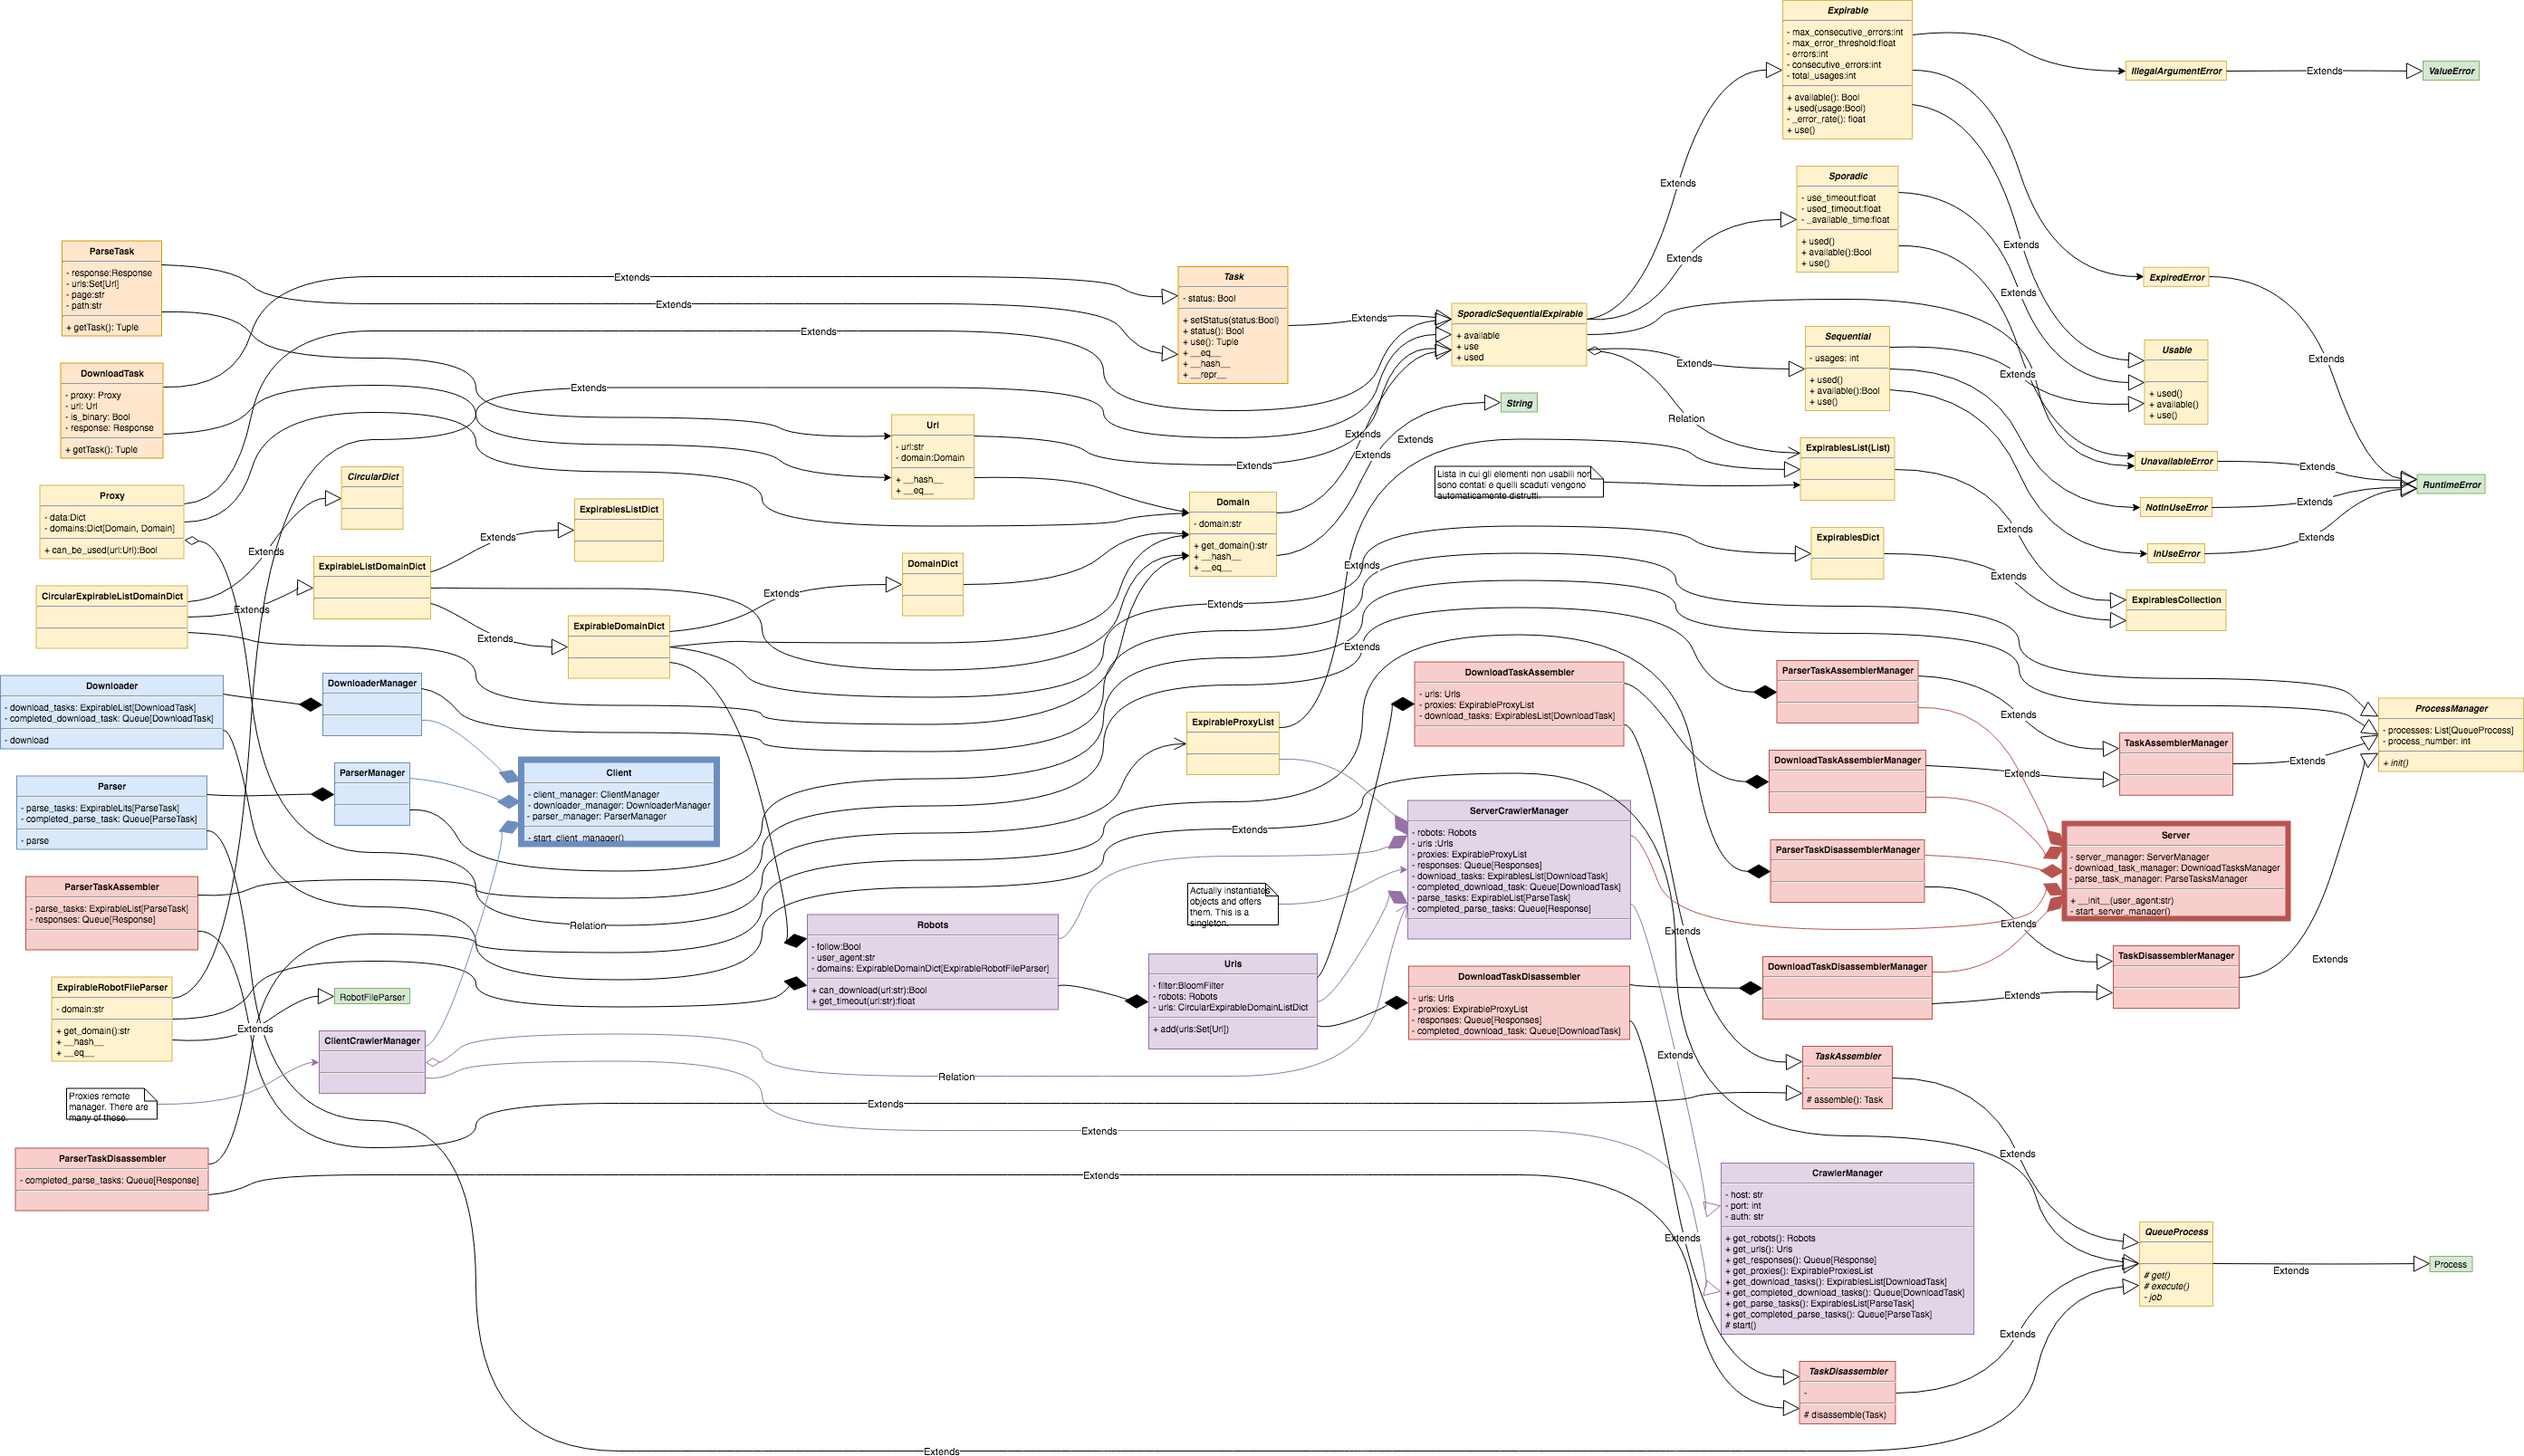
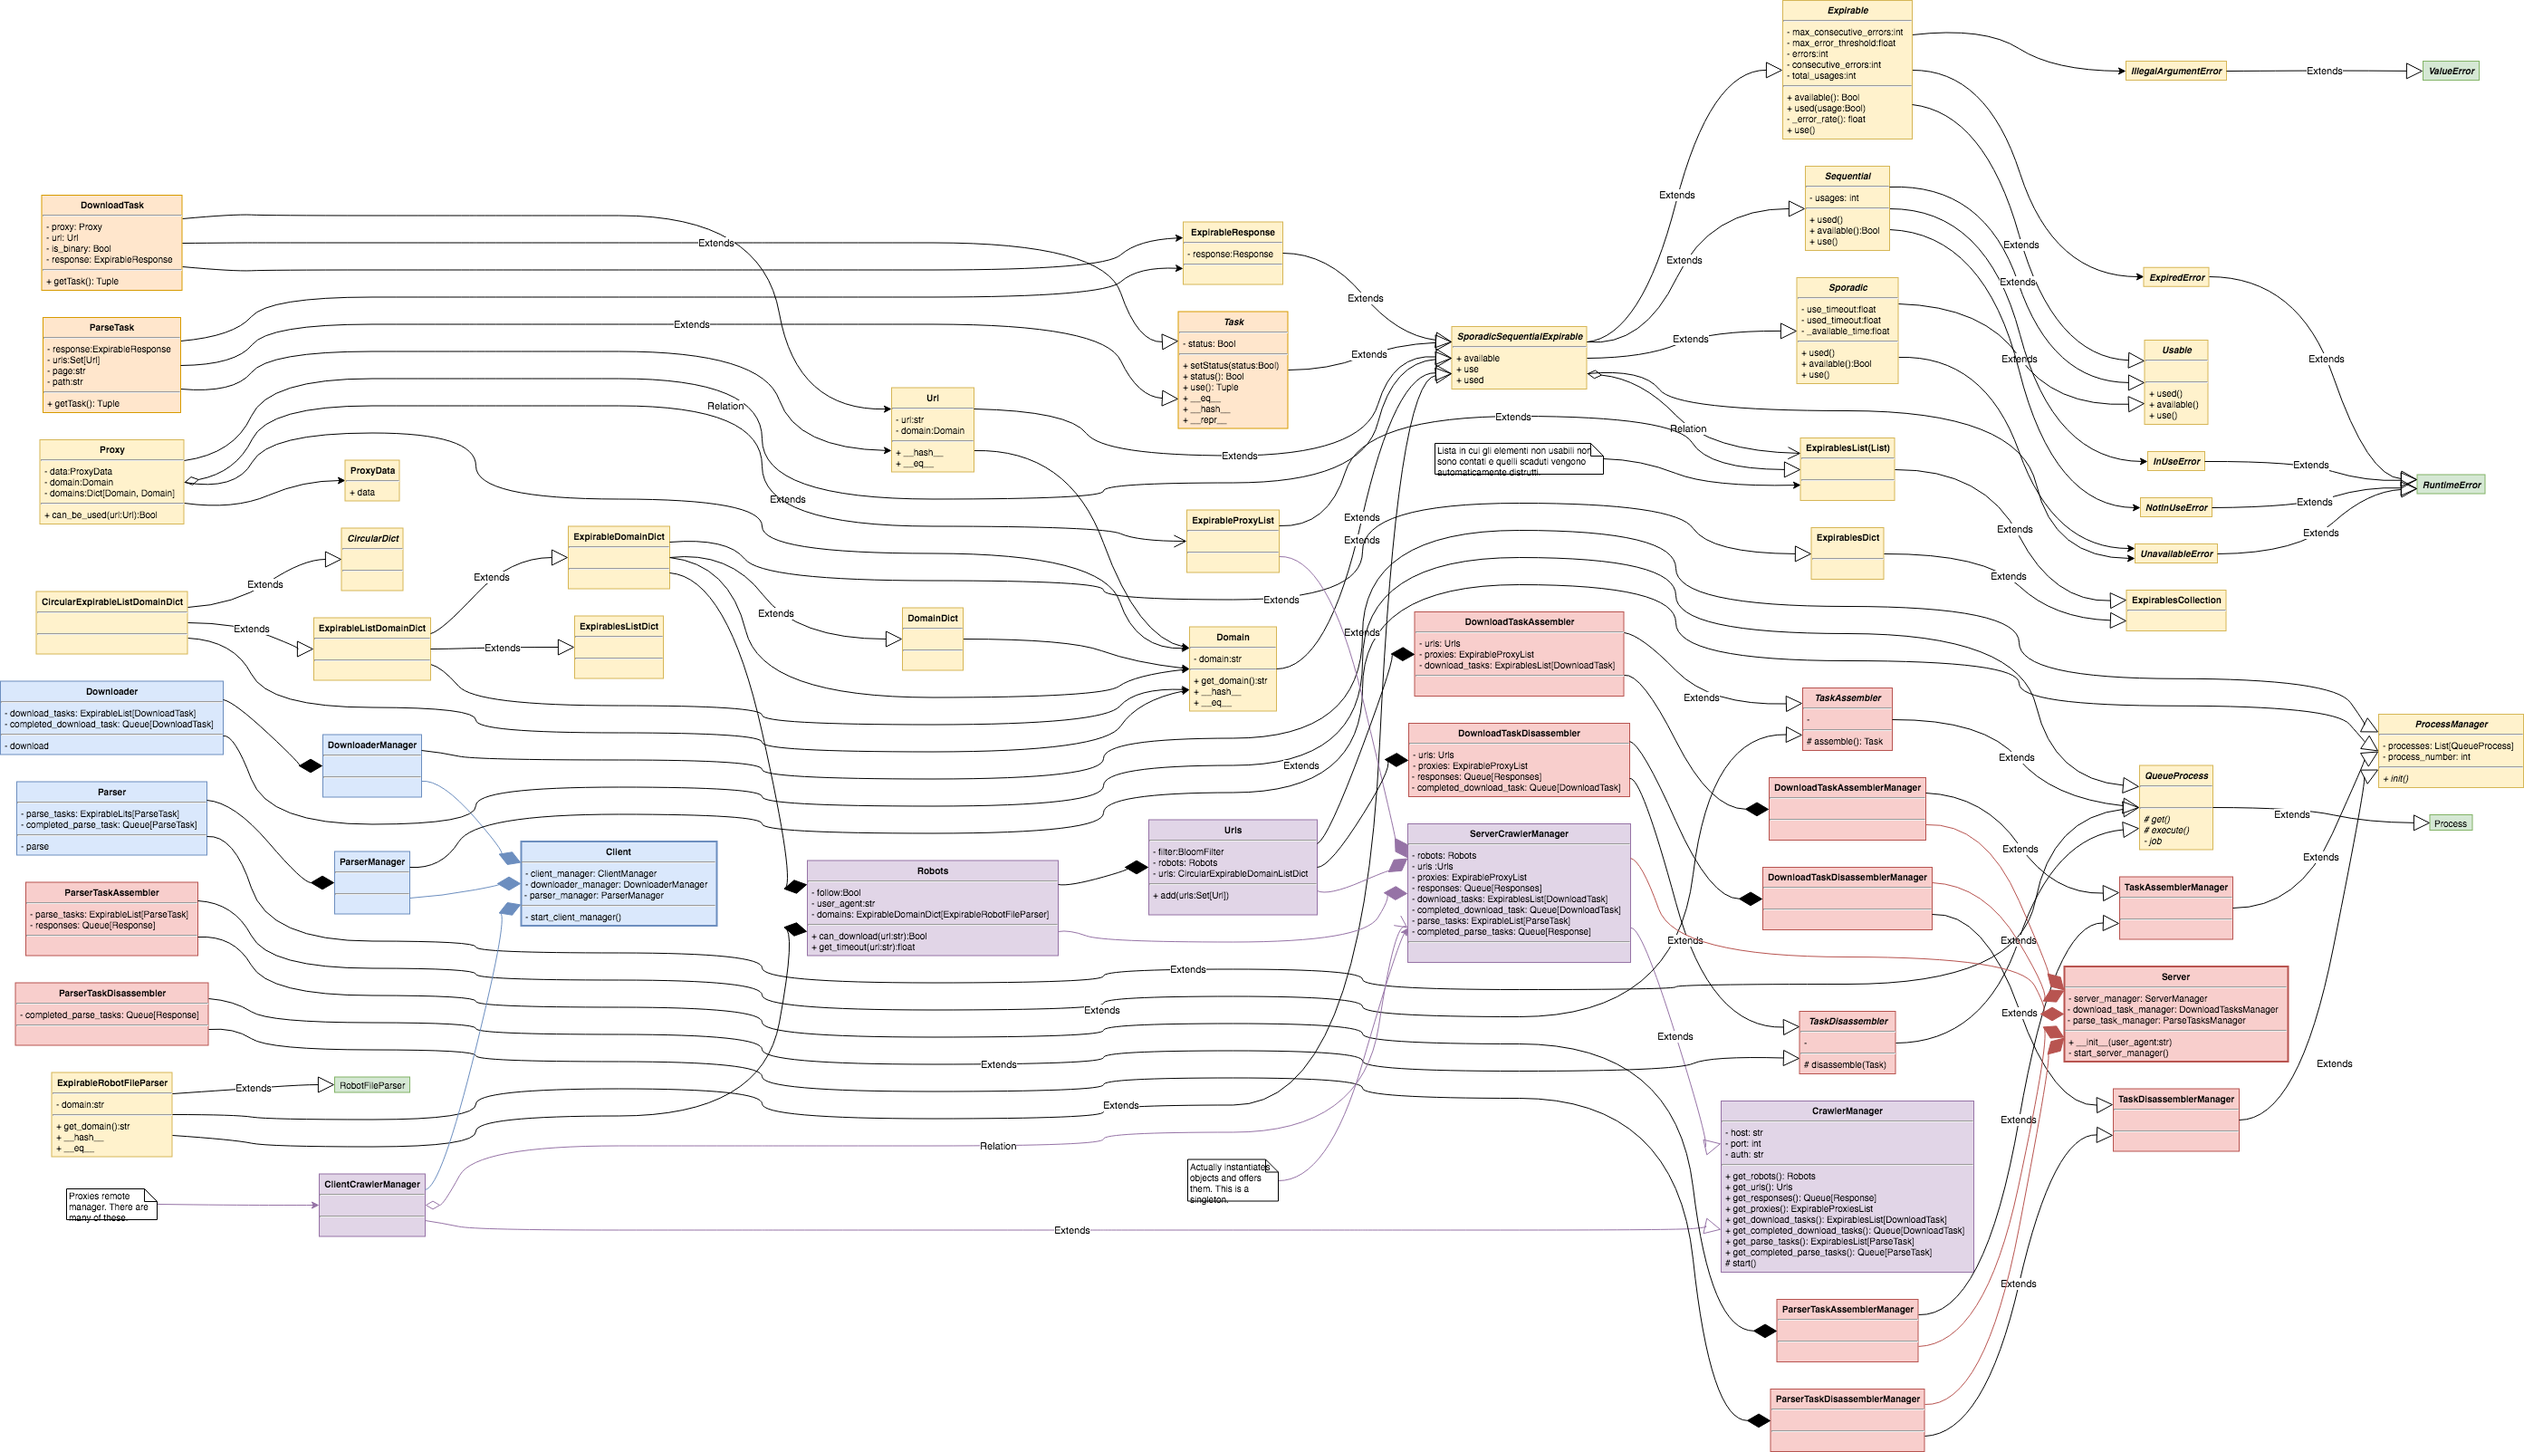
Created and fully tested proxy

diff --git a/tinycrawler/expirables/task/downloader_task.py b/tinycrawler/expirables/task/downloader_task.py
@@ -1,0 +1,65 @@
+# from .task import Task
+# from ..web import Url
+# from ...exceptions import IllegalArgumentError
+# from typing import Set
+# from requests import Response
+# from ...validators import path as is_valid_path
+
+
+# class DownloaderTask(Task):
+#     def __init__(self, proxy: Proxy, task_id: int, **kwargs):
+#         """Create an unique task.
+#             task_id:int, unique identifier of current task.
+#             response:Response, response to be parsed.
+#         """
+#         super(DownloaderTask, self).__init__(task_id, **kwargs)
+#         if response is None:
+#             raise IllegalArgumentError("Given response argument is None.")
+#         self._response = response
+#         self._urls = set()
+#         self._page = self._path = None
+
+#     @property
+#     def response(self)->Response:
+#         return self._response
+
+#     @property
+#     def page(self)->str:
+#         if self._page is None:
+#             raise ValueError("Page was not elaborated yet.")
+#         return self._page
+
+#     @property
+#     def path(self)->str:
+#         if self._path is None:
+#             raise ValueError("Path was not elaborated yet.")
+#         return self._path
+
+#     @property
+#     def urls(self)->Set[Url]:
+#         return self._urls
+
+#     @page.setter
+#     def page(self, page: str):
+#         if self._page is not None:
+#             raise ValueError("Page has already been elaborated.")
+#         self._page = page
+
+#     @path.setter
+#     def path(self, path: str):
+#         if self._path is not None:
+#             raise ValueError("Path has already been elaborated.")
+#         if not is_valid_path(path):
+#             raise IllegalArgumentError("Given path is not safe.")
+#         self._path = path
+
+#     def add_url(self, url: Url):
+#         """Add given url to set."""
+#         self._urls.add(url)
+
+#     def ___repr___(self):
+#         return {
+#             **super(DownloaderTask, self).___repr___(),
+#             **{
+#                 "task_type": "downloader task"
+#             }}

diff --git a/tinycrawler/expirables/web/proxy.py b/tinycrawler/expirables/web/proxy.py
@@ -1,0 +1,48 @@
+from ..sporadic_sequential_expirable import SporadicSequentialExpirable
+from typing import Dict
+from ..web import Domain, Url
+from ...utils import ProxyData
+
+
+class Proxy(SporadicSequentialExpirable):
+    def __init__(self, domain: Domain, proxy_data: ProxyData, **kwargs):
+        super(Proxy, self).__init__(**kwargs)
+        self._domain = domain
+        self._data = proxy_data
+        self._domains = {}
+
+    def is_available(self, url: Url)->bool:
+        if not super(Proxy, self).is_available():
+            return False
+        if url.domain in self._domains:
+            return self._domains[url.domain].is_available()
+        return True
+
+    @property
+    def data(self)->ProxyData:
+        return self._data
+
+    def use(self, url: Url, **kwargs):
+        super(Proxy, self).use(url=url, **kwargs)
+        if url.domain not in self._domains:
+            self._domains[url.domain] = url.domain
+        self._domains[url.domain].use(**kwargs)
+
+    def used(self, url: Url, **kwargs):
+        super(Proxy, self).used(**kwargs)
+        if url.domain not in self._domains:
+            self._domains[url.domain] = url.domain
+        self._domains[url.domain].used(**kwargs)
+
+    def __eq__(self, other)->bool:
+        return other is not None and isinstance(other, Proxy) and self._domain == other._domain
+
+    def ___repr___(self):
+        return {
+            **super(Proxy, self).___repr___(),
+            **{
+                "domain": self._domain.___repr___(),
+                "domains": {
+                    key.domain: value.___repr___() for key, value in self._domains.items()
+                }
+            }}

diff --git a/tinycrawler/expirables/web/domain.py b/tinycrawler/expirables/web/domain.py
@@ -2,13 +2,14 @@ from ..sporadic_sequential_expirable import SporadicSequentialExpirable
 from urllib.parse import urlparse
 from ...exceptions import IllegalArgumentError
 from validators import url as is_url_valid
+from IPy import IP
 
 
 class Domain(SporadicSequentialExpirable):
 
     def __init__(self, url: str, **kwargs):
         super(Domain, self).__init__(**kwargs)
-        if not is_url_valid(url):
+        if not (is_url_valid(url) or Domain.is_ip_valid(url)):
             raise IllegalArgumentError(
                 "Given url {url} is not a valid url.".format(url=url))
         self._domain = self._get_domain(url)
@@ -17,7 +18,16 @@ class Domain(SporadicSequentialExpirable):
         """Return domain from given url.
             url:str, the url from which extract the domain.
         """
-        return '{uri.scheme}://{uri.netloc}'.format(uri=urlparse(url))
+        if Domain.is_ip_valid(url):
+            return url
+        return '{uri.netloc}'.format(uri=urlparse(url))
+
+    @staticmethod
+    def is_ip_valid(url: str):
+        try:
+            return IP(url)
+        except ValueError:
+            return False
 
     @property
     def domain(self):
@@ -27,7 +37,7 @@ class Domain(SporadicSequentialExpirable):
         return hash(self.domain)
 
     def __eq__(self, other):
-        return other is not None and isinstance(other, Domain) and self.__hash__() == other.__hash__()
+        return other is not None and isinstance(other, Domain) and self.domain == other.domain
 
     def ___repr___(self):
         return {

diff --git a/tinycrawler/expirables/sporadic_sequential_expirable.py b/tinycrawler/expirables/sporadic_sequential_expirable.py
@@ -19,14 +19,14 @@ class SporadicSequentialExpirable(Sporadic, Sequential, Expirable):
             raise IllegalArgumentError(
                 "Given constraint cause object to never become expired, even when Sequential constraint is active.")
 
-    def is_available(self):
+    def is_available(self, **kwargs):
         sporadic_available = Sporadic.is_available(self)
         expirable_available = Expirable.is_available(self)
         sequential_available = Sequential.is_available(self)
         return sporadic_available and expirable_available and (sporadic_available or sequential_available)
 
     def use(self, **kwargs):
-        if not self.is_available():
+        if not self.is_available(**kwargs):
             raise UnavailableError()
         try:
             super(SporadicSequentialExpirable, self).use(**kwargs)
@@ -40,5 +40,5 @@ class SporadicSequentialExpirable(Sporadic, Sequential, Expirable):
         return {**dict(ChainMap(*[
             base.___repr___(self) for base in SporadicSequentialExpirable.__bases__
         ])), **{
-            "SporadicSequentialExpirable_available": self.is_available()
+            "SporadicSequentialExpirable_available": SporadicSequentialExpirable.is_available(self)
         }}

diff --git a/tinycrawler/expirables/task/parser_task.py b/tinycrawler/expirables/task/parser_task.py
@@ -1,8 +1,7 @@
 from .task import Task
-from ..web import Url
+from ..web import Url, Response
 from ...exceptions import IllegalArgumentError
 from typing import Set
-from requests import Response
 from ...validators import path as is_valid_path
 
 
@@ -19,9 +18,17 @@ class ParserTask(Task):
         self._urls = set()
         self._page = self._path = None
 
+    def use(self, **kwargs):
+        super(ParserTask, self).use(**kwargs)
+        self._response.use(**kwargs)
+
+    def used(self):
+        super(ParserTask, self).used()
+        self._response.used(success=False)
+
     @property
     def response(self)->Response:
-        return self._response
+        return self._response.response
 
     @property
     def page(self)->str:

diff --git a/tests/test_parser_task.py b/tests/test_parser_task.py
@@ -1,4 +1,4 @@
-from tinycrawler.expirables import ParserTask
+from tinycrawler.expirables import ParserTask, Response
 from tinycrawler import IllegalArgumentError, Url
 from .utils import double_arguments_test
 
@@ -10,12 +10,15 @@ def test_parser_task_arguments():
     except IllegalArgumentError:
         pass
 
-    parser_task = ParserTask("", 0)
+    parser_task = ParserTask(Response(""), 0)
 
     parser_task.response
     parser_task.add_url(
         Url("https://requests-mock.readthedocs.io/en/latest/response.html"))
     parser_task.urls
+
+    parser_task.use()
+    parser_task.used()
 
     try:
         parser_task.page

diff --git a/tests/test_proxy.py b/tests/test_proxy.py
@@ -1,0 +1,21 @@
+from tinycrawler.expirables import Proxy
+from tinycrawler.utils import ProxyData
+from tinycrawler import Domain, Url
+import json
+
+
+def test_proxy():
+    with open("test_data/raw_proxy_data.json", "r") as f:
+        proxy_data = ProxyData(json.load(f))
+
+    domain = Domain("78.38.241.9")
+    domainb = Domain("78.200.241.9")
+
+    proxy = Proxy(domain, proxy_data)
+    proxyb = Proxy(domainb, proxy_data)
+
+    url = Url("https://www.youtube.com/watch?v=sUmoMSU9_GQ")
+    proxy.use(url)
+    proxy.used(url, success=False)
+
+    assert proxy != proxyb

diff --git a/tinycrawler/utils/proxy/proxy_data.py b/tinycrawler/utils/proxy/proxy_data.py
@@ -1,0 +1,21 @@
+from typing import Dict
+
+
+class ProxyData(dict):
+    PROTOCOLS = {
+        "http": "http",
+        "https": "https",
+        "socks4": "https",
+        "socks5": "https"
+    }
+
+    ADDRESS = "{protocol}://{ip}:{port}"
+
+    def __init__(self, data: Dict):
+        super(ProxyData, self).__init__(
+            {protocol:  ProxyData.ADDRESS.format(
+                protocol=protocol,
+                ip=data["ip"],
+                port=data["port"]
+            ) for key, protocol in ProxyData.PROTOCOLS.items() if data["support"][key]}
+        )

diff --git a/tinycrawler/expirables/web/response.py b/tinycrawler/expirables/web/response.py
@@ -1,0 +1,12 @@
+from ..sporadic_sequential_expirable import SporadicSequentialExpirable
+from requests import Response as RequestsResponse
+
+
+class Response(SporadicSequentialExpirable):
+    def __init__(self, response: RequestsResponse, **kwargs):
+        super(Response, self).__init__(**kwargs)
+        self._response = response
+
+    @property
+    def response(self)->RequestsResponse:
+        return self._response

diff --git a/setup.py b/setup.py
@@ -87,7 +87,7 @@ setup(
     # requirements files see:
     # https://packaging.python.org/en/latest/requirements.html
     tests_require=test_deps,
-    install_requires=['validators', 'requests', 'user_agent',
+    install_requires=['validators', 'requests', 'user_agent', 'IPy',
                       'pybloom_live', 'lxml', 'bs4', 'html5lib'],
     extras_require=extras,
 )

diff --git a/tests/test_proxy_data.py b/tests/test_proxy_data.py
@@ -1,0 +1,8 @@
+from tinycrawler.utils import ProxyData
+import json
+from pprint import pprint
+
+
+def test_proxy_data():
+    with open("test_data/raw_proxy_data.json", "r") as f, open("test_data/expected_proxy_data.json", "r") as expected:
+        assert ProxyData(json.load(f)) == json.load(expected)

diff --git a/tests/test_expirable.py b/tests/test_expirable.py
@@ -97,7 +97,5 @@ def test_expiration_representation():
         expirable.use()
         expirable.used(success=0)
 
-    print(expirable)
-
     with open("test_data/expected_expirable_representation.json", "r") as f:
         assert str(expirable) == f.read()
